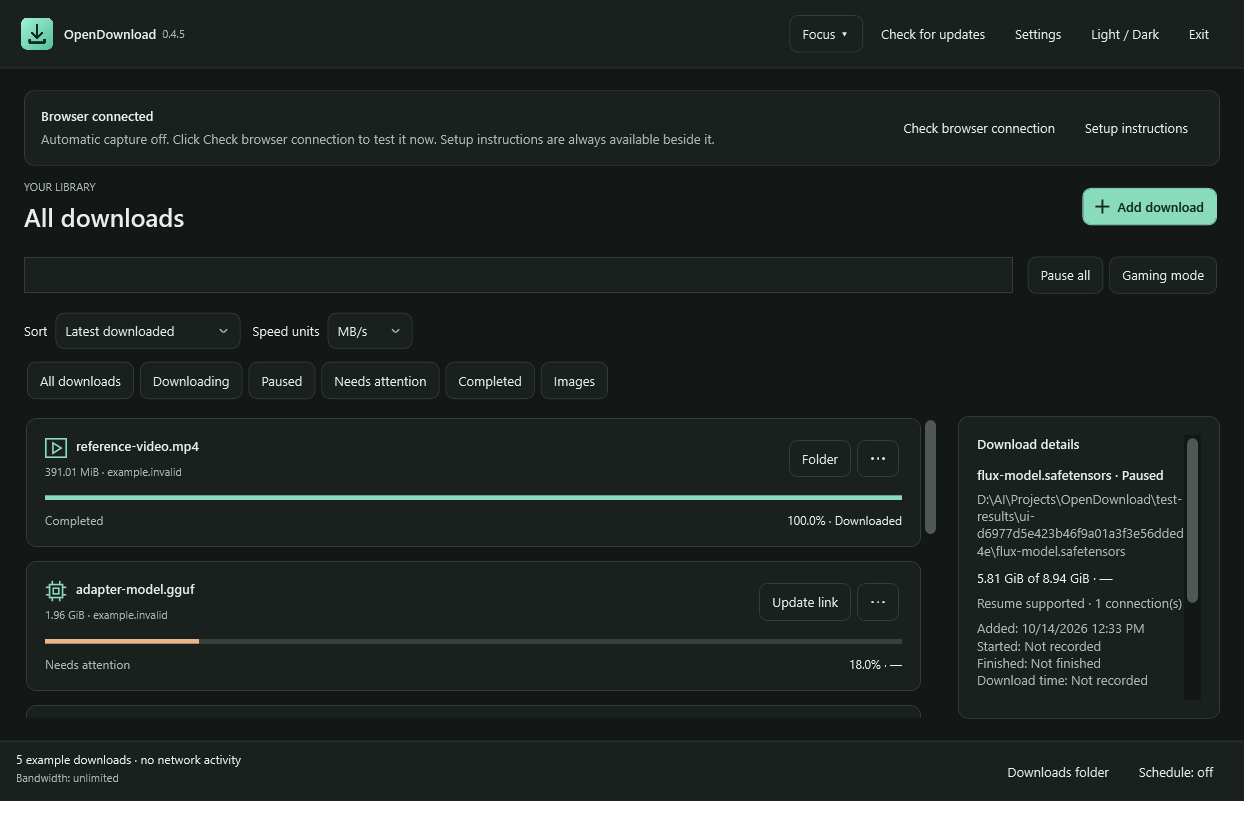
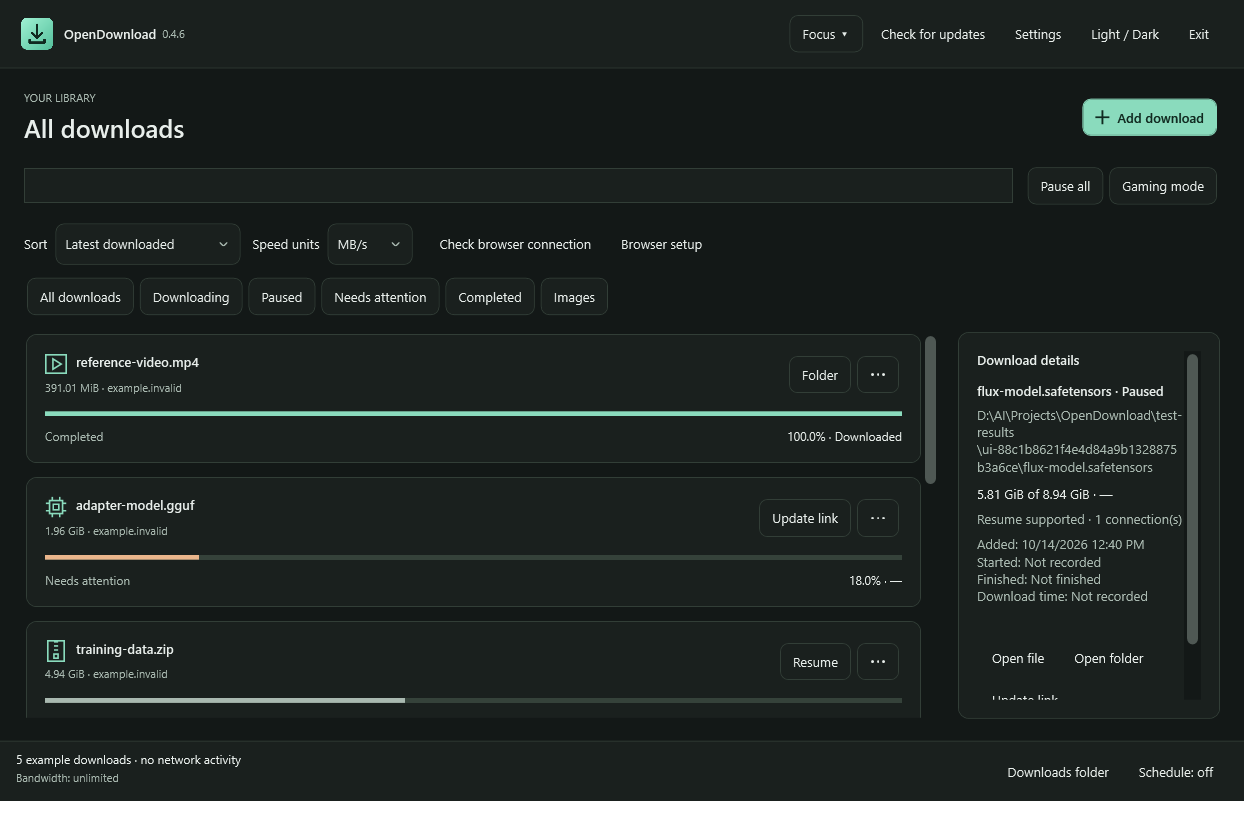
Collapse successful browser setup into compact Focus controls (v0.4.6)

diff --git a/src/OpenDownload.Desktop/MainWindow.xaml b/src/OpenDownload.Desktop/MainWindow.xaml
@@ -14,7 +14,7 @@
     <Border x:Name="BrowserConnectBanner" DockPanel.Dock="Top" Visibility="Collapsed" Background="{DynamicResource Selected}" BorderBrush="{DynamicResource Accent}" BorderThickness="1" CornerRadius="10" Padding="16" Margin="0,0,0,14"><Grid><Grid.ColumnDefinitions><ColumnDefinition/><ColumnDefinition Width="Auto"/></Grid.ColumnDefinitions><StackPanel Margin="0,0,16,0"><TextBlock x:Name="BrowserConnectTitle" Text="Connect your browser" FontWeight="SemiBold"/><TextBlock x:Name="BrowserConnectHint" Text="Connect Chrome or Edge once. Click Connect your browser to see the steps." TextWrapping="Wrap" Foreground="{DynamicResource Muted}" Margin="0,5,0,0"/></StackPanel><StackPanel Grid.Column="1" Orientation="Horizontal" VerticalAlignment="Center"><Button x:Name="FocusBrowserButton" Content="Connect your browser" Click="BrowserConnectionClick" Style="{StaticResource PrimaryButton}"/><Button Content="Setup instructions" Click="BrowserClick" Style="{StaticResource QuietButton}"/></StackPanel></Grid></Border>
     <Grid DockPanel.Dock="Top" Margin="0,0,0,20"><Grid.ColumnDefinitions><ColumnDefinition/><ColumnDefinition Width="Auto"/></Grid.ColumnDefinitions><StackPanel><TextBlock Text="YOUR LIBRARY" FontSize="11" Foreground="{DynamicResource Muted}"/><TextBlock x:Name="LibraryTitle" Text="All downloads" FontSize="25" FontWeight="SemiBold" Margin="0,6,0,0"/></StackPanel><Button Grid.Column="1" AutomationProperties.Name="Add download" Click="AddClick" Style="{StaticResource PrimaryButton}" VerticalAlignment="Center" ToolTip="Add one URL or a batch (Ctrl+N)"><StackPanel Orientation="Horizontal"><Path Data="M 7,0 L 7,14 M 0,7 L 14,7" Stroke="{DynamicResource AccentInk}" StrokeThickness="1.8" Width="14" Height="14" Margin="0,0,8,0" VerticalAlignment="Center"/><TextBlock Text="Add download"/></StackPanel></Button></Grid>
     <Grid DockPanel.Dock="Top" Margin="0,0,0,16"><Grid.ColumnDefinitions><ColumnDefinition/><ColumnDefinition Width="Auto"/></Grid.ColumnDefinitions><TextBox x:Name="SearchBox" TextChanged="SearchChanged" Margin="0,0,12,0" VerticalAlignment="Center" ToolTip="Search downloads" AutomationProperties.Name="Search downloads"/><StackPanel Grid.Column="1" Orientation="Horizontal"><Button Content="Pause all" Click="PauseAllClick"/><Button x:Name="GamingButton" Content="Gaming mode" Click="GamingClick"/></StackPanel></Grid>
-    <WrapPanel DockPanel.Dock="Top" Margin="0,0,0,10"><TextBlock Text="Sort" VerticalAlignment="Center" Margin="0,0,8,0"/><ComboBox x:Name="SortPicker" Width="185" SelectionChanged="SortChanged" Margin="0,0,12,0" AutomationProperties.Name="Sort downloads"/><TextBlock Text="Speed units" VerticalAlignment="Center" Margin="0,0,8,0"/><ComboBox x:Name="UnitPicker" Width="85" SelectionChanged="UnitChanged" Margin="0,0,12,0" AutomationProperties.Name="Speed units"/><Button x:Name="DetailsToggle" Content="Hide details" Click="ToggleDetailsClick" Visibility="Collapsed" ToolTip="Show or hide the Workbench download details panel"/><Button x:Name="LiveBrowserStatus" Content="Check browser connection" Click="BrowserConnectionClick" Style="{StaticResource QuietButton}"/></WrapPanel>
+    <WrapPanel DockPanel.Dock="Top" Margin="0,0,0,10"><TextBlock Text="Sort" VerticalAlignment="Center" Margin="0,0,8,0"/><ComboBox x:Name="SortPicker" Width="185" SelectionChanged="SortChanged" Margin="0,0,12,0" AutomationProperties.Name="Sort downloads"/><TextBlock Text="Speed units" VerticalAlignment="Center" Margin="0,0,8,0"/><ComboBox x:Name="UnitPicker" Width="85" SelectionChanged="UnitChanged" Margin="0,0,12,0" AutomationProperties.Name="Speed units"/><Button x:Name="DetailsToggle" Content="Hide details" Click="ToggleDetailsClick" Visibility="Collapsed" ToolTip="Show or hide the Workbench download details panel"/><Button x:Name="LiveBrowserStatus" Content="Check browser connection" Click="BrowserConnectionClick" Style="{StaticResource QuietButton}"/><Button x:Name="CompactBrowserInstructions" Content="Browser setup" Click="BrowserClick" Style="{StaticResource QuietButton}" Visibility="Collapsed"/></WrapPanel>
     <Border x:Name="SpeedOverview" DockPanel.Dock="Top" Background="{DynamicResource Surface}" CornerRadius="8" Padding="12" Margin="0,0,0,12"><Grid><Grid.ColumnDefinitions><ColumnDefinition Width="270"/><ColumnDefinition/></Grid.ColumnDefinitions><StackPanel><TextBlock x:Name="SpeedReadout" FontSize="12" Text="No active downloads"/><TextBlock x:Name="SpeedCap" FontSize="11" Foreground="{DynamicResource Muted}" Margin="0,5,0,0"/></StackPanel><Canvas Grid.Column="1" x:Name="SpeedChart" Height="40" ClipToBounds="True" ToolTip="Transfer speed over the latest 60 samples, roughly one minute"><Polyline x:Name="SpeedLine" Stroke="{DynamicResource Accent}" StrokeThickness="2"/></Canvas></Grid></Border>
     <WrapPanel x:Name="FocusFilters" DockPanel.Dock="Top" Visibility="Collapsed" Margin="0,0,0,14"><Button Content="All downloads" Click="FocusFilterClick"/><Button Content="Downloading" Click="FocusFilterClick"/><Button Content="Paused" Click="FocusFilterClick"/><Button Content="Needs attention" Click="FocusFilterClick"/><Button Content="Completed" Click="FocusFilterClick"/><Button Content="Images" Click="FocusFilterClick"/></WrapPanel>
     <StackPanel x:Name="BulkActions" DockPanel.Dock="Top" Orientation="Horizontal" Visibility="Collapsed" Margin="0,0,0,12"><TextBlock x:Name="SelectionCount" VerticalAlignment="Center" Margin="0,0,12,0"/><Button Content="Resume selected" Click="ResumeClick"/><Button Content="Pause selected" Click="PauseClick"/><Button Content="More…" Click="BulkMoreClick"/></StackPanel>

diff --git a/src/OpenDownload.Desktop/MainWindow.UiTests.cs b/src/OpenDownload.Desktop/MainWindow.UiTests.cs
@@ -48,12 +48,12 @@ public partial class MainWindow
             settings.BrowserCheckedAt=null; browserSeen=null; UpdateBrowserConnectionUi();
             Check(BrowserConnectBanner.Visibility==Visibility.Visible && LiveBrowserStatus.Content.ToString()=="Connect your browser","Focus exposes an obvious first-time browser connection action");
             RecordBrowserCheck(); UpdateBrowserConnectionUi();
-            Check(BrowserConnectBanner.Visibility==Visibility.Visible && FocusBrowserButton.Content.ToString()=="Check browser connection" && FocusBrowserButton.Style==FindResource("QuietButton"),"Focus keeps a quiet check button and instructions after connection");
-            browserSeen=null; UpdateBrowserConnectionUi(); Check(BrowserConnectBanner.Visibility==Visibility.Visible && FocusBrowserButton.Content.ToString()=="Check browser connection","Focus keeps connection check and instructions available while the browser is offline");
+            Check(BrowserConnectBanner.Visibility==Visibility.Collapsed && LiveBrowserStatus.Visibility==Visibility.Visible && CompactBrowserInstructions.Visibility==Visibility.Visible && LiveBrowserStatus.Style==FindResource("QuietButton"),"Successful setup collapses into compact connection and setup buttons");
+            browserSeen=null; UpdateBrowserConnectionUi(); Check(BrowserConnectBanner.Visibility==Visibility.Collapsed && LiveBrowserStatus.Visibility==Visibility.Visible,"Previously connected browsers keep compact controls without expanding the panel");
             bool checkSuccess=await CheckBrowserConnectionAsync(()=> { RecordBrowserCheck(); return Task.CompletedTask; },TimeSpan.FromMilliseconds(300));
             Check(checkSuccess && !browserConnectionFailed,"Connection checks require a fresh extension response");
             checkSuccess=await CheckBrowserConnectionAsync(()=>Task.CompletedTask,TimeSpan.FromMilliseconds(20));
-            Check(!checkSuccess && browserConnectionFailed && FocusBrowserButton.Content.ToString()=="Connect your browser","Failed checks restore the connection action instead of accepting an old check timestamp");
+            Check(!checkSuccess && browserConnectionFailed && BrowserConnectBanner.Visibility==Visibility.Visible && FocusBrowserButton.Content.ToString()=="Connect your browser","Failed checks restore the connection action instead of accepting an old check timestamp");
             RecordBrowserCheck(); UpdateBrowserConnectionUi();
             var firstFocusRow=(DownloadRow)FocusDownloads.Items[0]; FocusDownloads.ScrollIntoView(firstFocusRow); await Dispatcher.InvokeAsync(UpdateLayout,DispatcherPriority.ApplicationIdle);
             var focusItem=(ListBoxItem)FocusDownloads.ItemContainerGenerator.ContainerFromItem(firstFocusRow);

diff --git a/src/OpenDownload.Desktop/MainWindow.Library.cs b/src/OpenDownload.Desktop/MainWindow.Library.cs
@@ -52,7 +52,7 @@ public partial class MainWindow
         bool ready=connectedBefore && !attention;
         string action=checkingBrowser ? "Checking connection..." : ready ? "Check browser connection" : "Connect your browser";
         string title=attention ? "Browser connection needs attention" : live ? "Browser connected" : connectedBefore ? "Check your browser connection" : "Connect your browser";
-        BrowserConnectBanner.Visibility=settings.Layout=="Focus" ? Visibility.Visible : Visibility.Collapsed;
+        BrowserConnectBanner.Visibility=settings.Layout=="Focus" && !ready ? Visibility.Visible : Visibility.Collapsed;
         BrowserConnectBanner.Background=(Brush)FindResource(ready ? "Surface" : "Selected");
         BrowserConnectBanner.BorderBrush=(Brush)FindResource(ready ? "Line" : "Accent");
         BrowserConnectTitle.Text=title;
@@ -60,7 +60,8 @@ public partial class MainWindow
         FocusBrowserButton.Content=action; FocusBrowserButton.IsEnabled=!checkingBrowser;
         FocusBrowserButton.Style=(Style)FindResource(ready ? "QuietButton" : "PrimaryButton");
         LiveBrowserStatus.Content=action; LiveBrowserStatus.IsEnabled=!checkingBrowser;
-        LiveBrowserStatus.Visibility=settings.Layout=="Focus" ? Visibility.Collapsed : Visibility.Visible;
+        LiveBrowserStatus.Visibility=settings.Layout=="Focus" && !ready ? Visibility.Collapsed : Visibility.Visible;
+        CompactBrowserInstructions.Visibility=settings.Layout=="Focus" && ready ? Visibility.Visible : Visibility.Collapsed;
         LiveBrowserStatus.Style=(Style)FindResource(ready ? "QuietButton" : "PrimaryButton");
         BrowserStatus.Content=action; BrowserStatus.IsEnabled=!checkingBrowser;
         FocusBrowserButton.ToolTip=LiveBrowserStatus.ToolTip="Run a fresh browser connection check. If it fails, the setup instructions reopen.";

diff --git a/src/OpenDownload.Desktop/MainWindow.BrowserConnection.cs b/src/OpenDownload.Desktop/MainWindow.BrowserConnection.cs
@@ -15,7 +15,7 @@ public partial class MainWindow
             while(DateTimeOffset.UtcNow<deadline)
             {
                 if(settings.BrowserCheckedAt is DateTimeOffset response && response>began)
-                { browserConnectionFailed=false; ShowNotice("Browser connection confirmed. Your browser responded to this check."); return true; }
+                { browserConnectionFailed=false; return true; }
                 await Task.Delay(100);
             }
         }

diff --git a/README.md b/README.md
@@ -1,24 +1,24 @@
 # OpenDownload
 
-[![Download Windows installer](https://img.shields.io/badge/Download_Windows_installer-.exe-58C9A8?style=for-the-badge&logo=windows&logoColor=white)](https://github.com/Renz1998/OpenDownload/releases/download/v0.4.5/OpenDownload-0.4.5-Setup.exe)
+[![Download Windows installer](https://img.shields.io/badge/Download_Windows_installer-.exe-58C9A8?style=for-the-badge&logo=windows&logoColor=white)](https://github.com/Renz1998/OpenDownload/releases/download/v0.4.6/OpenDownload-0.4.6-Setup.exe)
 
-**[Download OpenDownload 0.4.5 for Windows (.exe)](https://github.com/Renz1998/OpenDownload/releases/download/v0.4.5/OpenDownload-0.4.5-Setup.exe)**
+**[Download OpenDownload 0.4.6 for Windows (.exe)](https://github.com/Renz1998/OpenDownload/releases/download/v0.4.6/OpenDownload-0.4.6-Setup.exe)**
 
 Windows 11, 64-bit. Download and run the installer; the .NET runtime is included.
 
-[Portable ZIP](https://github.com/Renz1998/OpenDownload/releases/download/v0.4.5/OpenDownload-0.4.5-win-x64.zip) | [Release notes and checksums](https://github.com/Renz1998/OpenDownload/releases/tag/v0.4.5) | [Browser extension setup guide](docs/browser-setup.html)
+[Portable ZIP](https://github.com/Renz1998/OpenDownload/releases/download/v0.4.6/OpenDownload-0.4.6-win-x64.zip) | [Release notes and checksums](https://github.com/Renz1998/OpenDownload/releases/tag/v0.4.6) | [Browser extension setup guide](docs/browser-setup.html)
 
 A free, open-source download manager for Windows 11. A familiar toolbar, category sidebar and download table, with an independent transfer engine and Chrome/Edge extension. No trial, account, ads or subscription.
 
-**Version 0.4.5 is a preview release, not full IDM parity.** OpenDownload has its own branding, source code and browser helper. It does not replace IDM's helper, reset its trial, or redistribute its extension.
+**Version 0.4.6 is a preview release, not full IDM parity.** OpenDownload has its own branding, source code and browser helper. It does not replace IDM's helper, reset its trial, or redistribute its extension.
 
 ## See the app
 
-Actual screenshots of OpenDownload 0.4.5 with example downloads. Switch between these layouts at any time using the menu at the top of the app.
+Actual screenshots of OpenDownload 0.4.6 with example downloads. Switch between these layouts at any time using the menu at the top of the app.
 
 ### Focus (default)
 
-A simple card view with progress, quick actions and download details. Browser connection and setup instructions stay visible at the top: connect once, then check the connection whenever you need to. Failed checks reopen the illustrated setup guide.
+A simple card view with progress, quick actions and download details. The browser setup panel collapses after connection, leaving compact connection-check and setup buttons. Failed checks reopen the illustrated setup guide.
 
 ![OpenDownload Focus mode: download cards, sorting, speed units and a details panel](docs/images/focus.png)
 
@@ -52,7 +52,7 @@ A download table with a category sidebar for managing a larger library. Close th
 
 ## Run
 
-Run `OpenDownload-0.4.5-Setup.exe` for per-user installation, shortcuts and automatic browser-helper registration. Close OpenDownload using Exit before upgrading. The installer preserves preferences, downloads, unrelated files and the previous program folder as a recovery backup. Uninstall through Windows Settings → Apps; downloaded files, settings/history and the cached installer are kept. Alternatively extract the portable ZIP and launch `OpenDownload.Desktop.exe`. The .NET runtime is included.
+Run `OpenDownload-0.4.6-Setup.exe` for per-user installation, shortcuts and automatic browser-helper registration. Close OpenDownload using Exit before upgrading. The installer preserves preferences, downloads, unrelated files and the previous program folder as a recovery backup. Uninstall through Windows Settings → Apps; downloaded files, settings/history and the cached installer are kept. Alternatively extract the portable ZIP and launch `OpenDownload.Desktop.exe`. The .NET runtime is included.
 
 New installations save files to your Windows **Downloads** folder (`C:\Users\<user>\Downloads` on a typical setup). Existing custom download folders are preserved. Change the location, speed limit, connection count and schedule in **Settings**. Your settings and encrypted history live at `%LOCALAPPDATA%\OpenDownload`. Set `OPENDOWNLOAD_DATA` before launch to use another local data folder, or put its absolute path in `data-path.txt` beside the app. The environment variable takes priority. Keep that machine-specific file out of shared release packages.
 
